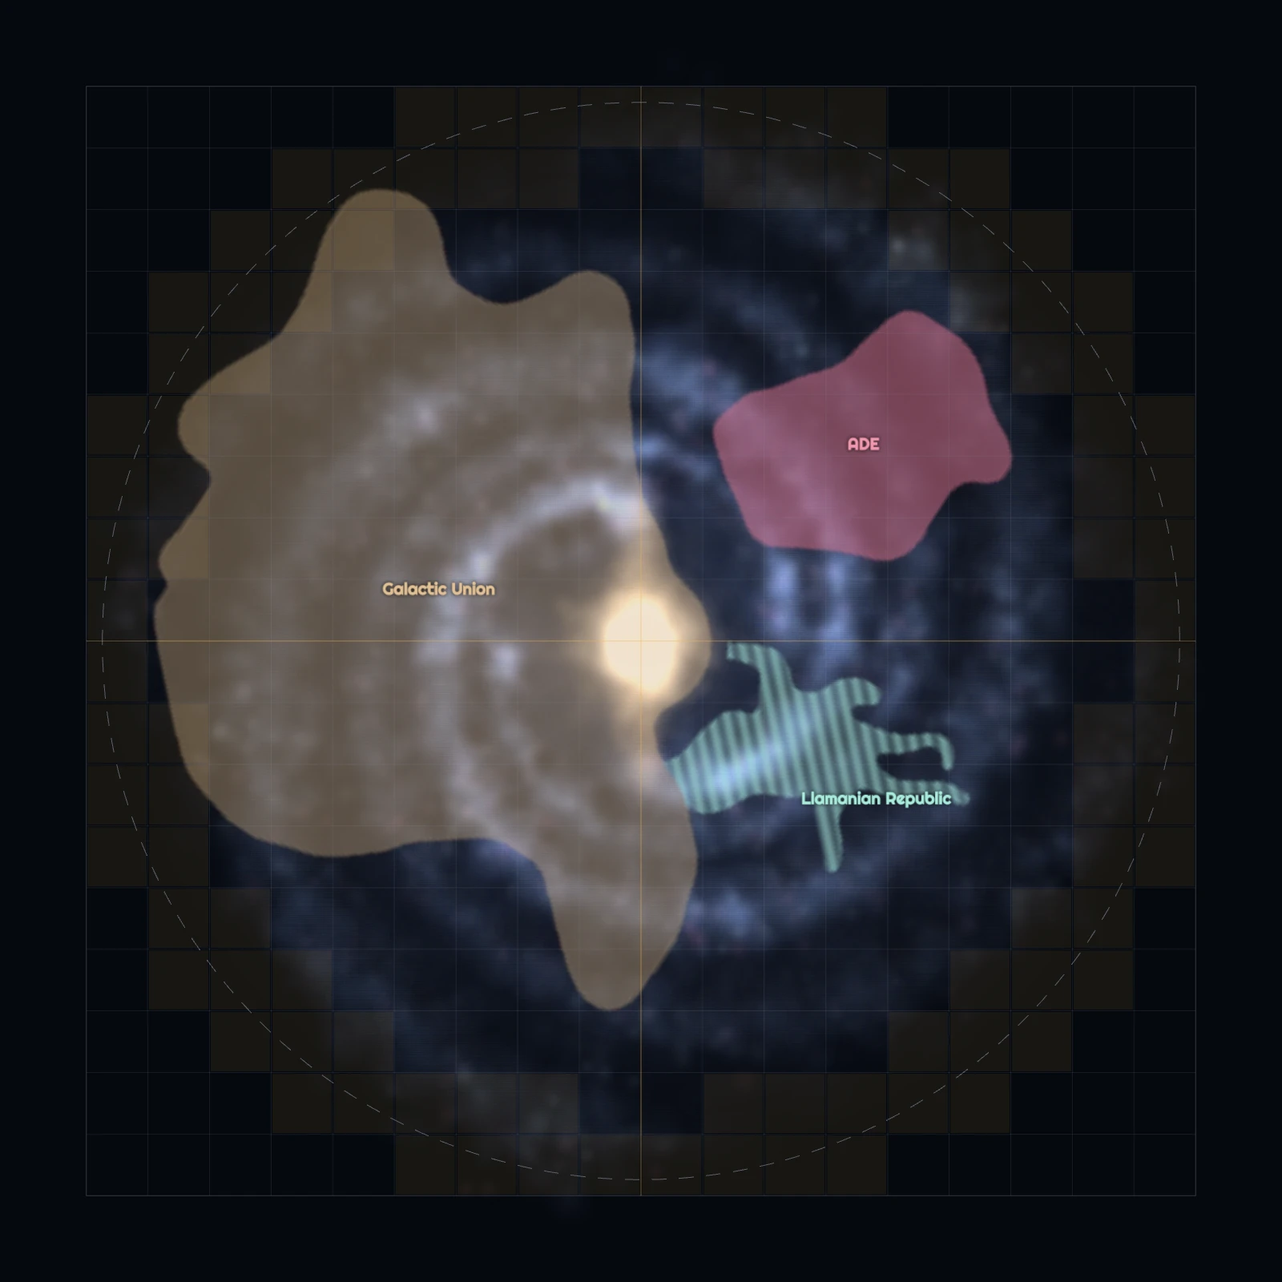
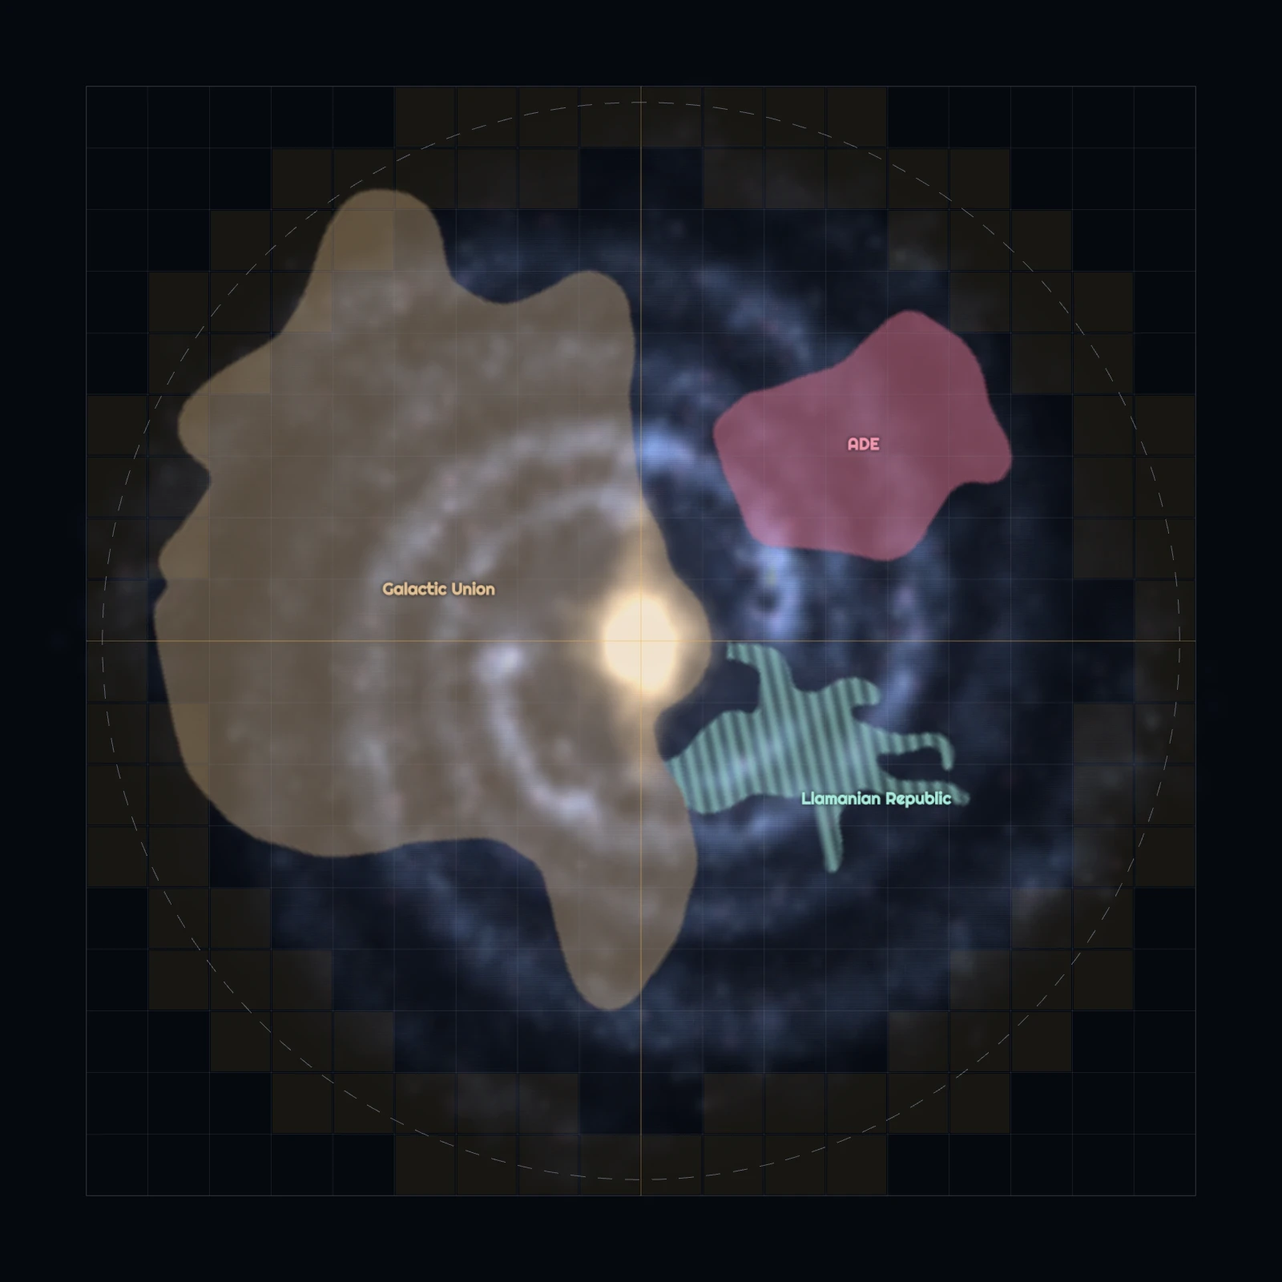
Galaxy map: arms laid out as the Milky Way's, the Orion Spur, and an Arm lines layer
Scutum-Crux and Perseus are now the major arms (the arms already fell at the right distances from Sol), and Sol gets its spur. The new layer, off by default, draws each arm as a colored line named as on the old subway-style map, plus the Bakree and Omega routes between saved places. The still picture is redrawn.

diff --git a/src/components/galaxy/GalaxyScene.tsx b/src/components/galaxy/GalaxyScene.tsx
@@ -26,6 +26,8 @@ export interface Layers {
     bearings: boolean;
     /** Names beside the place markers. */
     labels: boolean;
+    /** The arms and the Bakree and Omega routes as colored transit lines. */
+    transit: boolean;
 }
 
 interface Props {
@@ -70,17 +72,12 @@ function buildGalaxy(): THREE.Group {
     };
     g.globalCompositeOperation = 'lighter';
     blob(0, 0, DISK_R, '120,140,200', 0.3);
-    const b = Math.tan((12 * Math.PI) / 180);
-    const R0 = 11;
-    const tMax = Math.log(DISK_R / R0) / b;
-    for (let arm = 0; arm < 4; arm++) {
-        const major = arm % 2 === 0;
-        const off = Math.PI / 2 + (arm * Math.PI) / 2;
+    const tMax = Math.log(DISK_R / ARM_R0) / ARM_PITCH;
+    for (const { off, major } of ARMS) {
         for (let n = 0; n <= 260; n++) {
-            const t = (n / 260) * tMax;
-            const r = R0 * Math.exp(b * t);
+            const [x, y, r] = armPoint(off, (n / 260) * tMax);
             const w = (2.2 + r / 12) * (major ? 1 : 0.75);
-            blob(r * Math.cos(off + t), r * Math.sin(off + t), w, '150,185,255', (major ? 0.03 : 0.02) * (1 - (0.6 * n) / 260));
+            blob(x, y, w, '150,185,255', (major ? 0.03 : 0.02) * (1 - (0.6 * n) / 260));
         }
     }
     // Bar along +y, then the bulge.
@@ -118,6 +115,25 @@ function buildGalaxy(): THREE.Group {
     group.add(glow);
     return group;
 }
+
+// The four arms, each a log spiral r = ARM_R0 * exp(ARM_PITCH * t) at angle `off + t`. Laid out
+// this way they fall where the Milky Way's do as seen from Sol (26.7 klyr out, 27 degrees off the
+// bar): Norma at about 12 klyr, Scutum-Crux 17, Sagittarius 24, Sol, then Perseus 33; the
+// Norma spiral's second turn is the Outer arm. Scutum-Crux and Perseus are the two major arms.
+const ARM_PITCH = Math.tan((12 * Math.PI) / 180);
+const ARM_R0 = 11;
+const ARMS = [
+    { name: 'Norma', off: Math.PI / 2, major: false },
+    { name: 'Perseus', off: Math.PI, major: true },
+    { name: 'Sagittarius', off: (3 * Math.PI) / 2, major: false },
+    { name: 'Scutum-Crux', off: 0, major: true },
+];
+const armPoint = (off: number, t: number): [number, number, number] => {
+    const r = ARM_R0 * Math.exp(ARM_PITCH * t);
+    return [r * Math.cos(off + t), r * Math.sin(off + t), r];
+};
+/** Sol's own short arm, between Sagittarius and Perseus: the angle Sol sits at and how far out. */
+const ORION = { angle: Math.atan2(23.79, -12.122), r: 26.7 };
 
 /** One soft cloud: where it is (klyr), how wide, its color (0..1) and how strong. */
 type Puff = [x: number, y: number, z: number, size: number, r: number, g: number, b: number, alpha: number];
@@ -159,15 +175,11 @@ function galaxyClouds(): { light: Puff[]; dust: Puff[] } {
         light.push([gauss() * 1.5 * thin, y, gauss() * 1.1 * thin, between(2.2, 4.2), 1, 0.8, 0.58, strength * 0.032 * thin]);
     }
     // Arms
-    const pitch = Math.tan((12 * Math.PI) / 180);
-    const R0 = 11;
-    const tMax = Math.log((DISK_R * 0.96) / R0) / pitch;
-    for (let arm = 0; arm < 4; arm++) {
-        const major = arm % 2 === 0;
-        const off = Math.PI / 2 + (arm * Math.PI) / 2;
+    const tMax = Math.log((DISK_R * 0.96) / ARM_R0) / ARM_PITCH;
+    ARMS.forEach(({ off, major }, arm) => {
         const at = (t: number) => {
-            const r = R0 * Math.exp(pitch * t);
-            return { r, x: r * Math.cos(off + t), y: r * Math.sin(off + t), width: (1.5 + r / 13) * (major ? 1 : 0.72) };
+            const [x, y, r] = armPoint(off, t);
+            return { r, x, y, width: (1.5 + r / 13) * (major ? 1 : 0.72) };
         };
         for (let n = count(major ? 1500 : 950); n > 0; n--) {
             const u = rnd();
@@ -189,6 +201,13 @@ function galaxyClouds(): { light: Puff[]; dust: Puff[] } {
             const inward = 1 - (0.55 * p.width + gauss() * 0.3 * p.width) / p.r;
             dust.push([p.x * inward, p.y * inward, gauss() * 0.3, between(2.6, 5.2), 0.02, 0.015, 0.03, strength * 0.085 * (1 - 0.5 * u)]);
         }
+    });
+    // The Orion Spur: the short, faint arm Sol sits in
+    for (let n = count(150); n > 0; n--) {
+        const turn = between(-0.75, 0.6);
+        const r = ORION.r * Math.exp(ARM_PITCH * 1.4 * turn);
+        const fade = 1 - Math.abs(turn + 0.075) / 0.72;
+        light.push([r * Math.cos(ORION.angle + turn) + gauss() * 1.1, r * Math.sin(ORION.angle + turn) + gauss() * 1.1, gauss() * 0.55, between(2.4, 4.6), 0.6, 0.74, 1, strength * 0.05 * fade]);
     }
     // The thin disc between the arms
     for (let n = count(700); n > 0; n--) {
@@ -249,7 +268,7 @@ function puffMesh(puffs: Puff[], blending: THREE.Blending, renderOrder: number):
     return mesh;
 }
 
-type Groups = Record<'galaxy' | 'grid' | 'octants' | 'ring' | 'terr' | 'rim' | 'bearings', THREE.Object3D>;
+type Groups = Record<'galaxy' | 'grid' | 'octants' | 'ring' | 'terr' | 'rim' | 'bearings' | 'transit', THREE.Object3D>;
 
 /** Everything the map draws, one group per layer. `onTerritories` runs once the territory picture has loaded into its group. */
 function buildWorld(fontDisplay: string, onTerritories?: () => void): Groups {
@@ -289,7 +308,76 @@ function buildWorld(fontDisplay: string, onTerritories?: () => void): Groups {
         );
         grid.add(box);
     }
-    return { galaxy, rim, terr, grid, octants, ring, bearings };
+    return { galaxy, rim, terr, grid, octants, ring, bearings, transit: buildTransit(fontDisplay) };
+}
+
+/** A flat colored band along a path on the plane, like a line on a transit map. */
+function ribbon(path: [number, number][], color: string, width = 0.55): THREE.Mesh {
+    const position: number[] = [];
+    const index: number[] = [];
+    path.forEach(([x, y], i) => {
+        const [ax, ay] = path[Math.max(0, i - 1)];
+        const [bx, by] = path[Math.min(path.length - 1, i + 1)];
+        const len = Math.hypot(bx - ax, by - ay) || 1;
+        const [nx, ny] = [(-(by - ay) / len) * (width / 2), ((bx - ax) / len) * (width / 2)];
+        position.push(x + nx, y + ny, 0.3, x - nx, y - ny, 0.3);
+        if (i > 0) index.push(2 * i - 2, 2 * i - 1, 2 * i, 2 * i, 2 * i - 1, 2 * i + 1);
+    });
+    const geo = new THREE.BufferGeometry();
+    geo.setAttribute('position', new THREE.Float32BufferAttribute(position, 3));
+    geo.setIndex(index);
+    const mesh = new THREE.Mesh(geo, new THREE.MeshBasicMaterial({ color, transparent: true, opacity: 0.9, depthTest: false, depthWrite: false, side: THREE.DoubleSide }));
+    mesh.renderOrder = 2;
+    return mesh;
+}
+
+// The line colors of the old "Comprehensive Map" (the subway-style one). Perseus was not on it.
+const LINE_COLORS = { outer: '#ff2fd6', threeKpc: '#ffe600', scutum: '#22e02a', sagittarius: '#2f8cff', perseus: '#35d6d0', bakree: '#ff2a2a', omega: '#ff8a1f' };
+/** The routes between saved places, by slug, in order. */
+const ROUTES: { color: string; stops: string[] }[] = [
+    { color: LINE_COLORS.bakree, stops: ['bakree_nebula', 'sol', 'ptorei_nebula'] },
+    { color: LINE_COLORS.omega, stops: ['geche_customs', 'padox_district', 'bagriburg', 'vanta_outer_junction'] },
+];
+
+/**
+ * The transit-map layer: each arm drawn as a colored line along its spiral, named as on
+ * the old subway-style map (the Norma spiral is "3kpc" near the bar and "Outer" beyond
+ * 20 klyr). The routes between places are added by the scene, which knows the places.
+ */
+function buildTransit(fontDisplay: string): THREE.Group {
+    const group = new THREE.Group();
+    const tMax = Math.log((DISK_R * 0.97) / ARM_R0) / ARM_PITCH;
+    const spiral = (off: number, from: number, to: number): [number, number][] => {
+        const path: [number, number][] = [];
+        for (let n = 0; n <= 160; n++) {
+            const [x, y] = armPoint(off, from + ((to - from) * n) / 160);
+            path.push([x, y]);
+        }
+        return path;
+    };
+    const label = (text: string, color: string, off: number, t: number) => {
+        const [x, y, r] = armPoint(off, t);
+        group.add(textSprite(text, color, fontDisplay, [x * (1 + 2 / r), y * (1 + 2 / r), 0.6], 2.6));
+    };
+    const split = Math.log(20 / ARM_R0) / ARM_PITCH;
+    const [norma, perseus, sagittarius, scutum] = ARMS;
+    group.add(
+        ribbon(spiral(norma.off, 0, split), LINE_COLORS.threeKpc),
+        ribbon(spiral(norma.off, split, tMax), LINE_COLORS.outer),
+        ribbon(spiral(perseus.off, 0, tMax), LINE_COLORS.perseus),
+        ribbon(spiral(sagittarius.off, 0, tMax), LINE_COLORS.sagittarius),
+        ribbon(spiral(scutum.off, 0, tMax), LINE_COLORS.scutum),
+    );
+    label('3kpc', LINE_COLORS.threeKpc, norma.off, split * 0.45);
+    label('Outer', LINE_COLORS.outer, norma.off, tMax * 0.86);
+    label('Perseus', LINE_COLORS.perseus, perseus.off, tMax * 0.7);
+    label('Sagittarius', LINE_COLORS.sagittarius, sagittarius.off, tMax * 0.62);
+    label('Scutum-Crux', LINE_COLORS.scutum, scutum.off, tMax * 0.55);
+    const routes = new THREE.Group();
+    routes.name = 'routes';
+    group.add(routes);
+    group.visible = false;
+    return group;
 }
 
 /** Half the width, in klyr, of the square the still picture covers (top-down, +y up, Sagittarius A in the middle). */
@@ -317,6 +405,7 @@ export function renderStill(size: number, fontDisplay: string): Promise<string> 
         });
         groups.octants.visible = false;
         groups.bearings.visible = false;
+        groups.transit.visible = false;
         scene.add(...Object.values(groups));
     });
 }
@@ -668,7 +757,23 @@ export default function GalaxyScene({ places, selectedId, onSelect, view, layers
         g.octants.visible = layers.octants;
         g.ring.visible = layers.grid || layers.octants || layers.galaxy;
         g.bearings.visible = layers.bearings;
+        g.transit.visible = layers.transit;
     }, [layers]);
+
+    // The transit layer's routes run between saved places, so they follow the places
+    const stops = ROUTES.map((route) => route.stops.map((slug) => places.find((p) => p.slug === slug)?.pos.slice(0, 2).join(',') ?? '').join(';')).join('|');
+    useEffect(() => {
+        const routes = three.current?.groups.transit.getObjectByName('routes');
+        if (!routes) return;
+        for (const old of [...routes.children]) {
+            routes.remove(old);
+            (old as THREE.Mesh).geometry.dispose();
+        }
+        stops.split('|').forEach((route, i) => {
+            const path = route.split(';').filter(Boolean).map((xy) => xy.split(',').map(Number) as [number, number]);
+            if (path.length > 1) routes.add(ribbon(path, ROUTES[i].color));
+        });
+    }, [stops]);
 
     useEffect(() => {
         const t = three.current;

diff --git a/src/components/galaxy/MapApp.tsx b/src/components/galaxy/MapApp.tsx
@@ -20,6 +20,7 @@ const cx = (...names: (string | false | null | undefined)[]) => names.filter(Boo
 // Listed top of the stack first, like layers in a paint program.
 const LAYER_ROWS: { key: keyof Layers; label: string; swatch: string; hint: string }[] = [
     { key: 'labels', label: 'Place names', swatch: '#dce4f1', hint: 'Names beside systems and landmarks' },
+    { key: 'transit', label: 'Arm lines', swatch: 'linear-gradient(90deg, #ff2fd6 0 25%, #ffe600 0 50%, #22e02a 0 75%, #2f8cff 0)', hint: 'The spiral arms as colored lines, with the Bakree and Omega routes' },
     { key: 'bearings', label: 'Bearings', swatch: '#8792a8', hint: 'The galactic bar and the way to Andromeda' },
     { key: 'octants', label: 'Octants', swatch: 'conic-gradient(#4f8ff0 0 25%, #e9c24a 0 50%, #45c27a 0 75%, #e8584f 0)', hint: 'The eight colored octant slabs and their names' },
     { key: 'grid', label: 'Sector grid', swatch: '#5d6779', hint: 'Sectors, 5 klyr to a square' },

diff --git a/src/components/galaxy/store.ts b/src/components/galaxy/store.ts
@@ -79,7 +79,7 @@ export function useGalaxyStore(initial: ApiPlace[]) {
     const [selBodyId, setSelBodyId] = useState<number | null>(null);
     const [level, setLevel] = useState<'galaxy' | 'system'>('galaxy');
     const [view, setView] = useState<ViewMode>('tilt');
-    const [layers, setLayers] = useState<Layers>({ galaxy: true, territories: true, rim: true, grid: true, octants: false, bearings: true, labels: true });
+    const [layers, setLayers] = useState<Layers>({ galaxy: true, territories: true, rim: true, grid: true, octants: false, bearings: true, labels: true, transit: false });
     const [flyToken, setFlyToken] = useState(0);
     const [resetToken, setResetToken] = useState(0);
     const [placing, setPlacing] = useState(false);

diff --git a/AGENTS.md b/AGENTS.md
@@ -45,7 +45,7 @@ Next.js rebuild of the legacy `ff-site` React app. Lore archive + authoring UI f
 - **Player characters (campaign cast)**: ff-server `GET /seasons/:season/cast` finds a campaign's player characters from its transcripts: in each episode, every player's most active character (QUOTE + ACTION messages). A player's main leads nearly every episode they attend; a side character (Bail, Ibraxas) only the episodes it carried. Nobody is excluded, so in FF4 (the only campaign with a GM) the GM's busiest NPC per episode counts too; admins curate those (demote to NPC). Admins can also add characters per campaign by hand (`Character.mainIn`, `SpeakerAdmin` → "add to cast…" → `PUT /characters/:id/main-in`): the only way a story-only campaign gets a cast. `/archives/[season]` lists the cast as avatars (`CastAvatar`, name on hover), most messages first; each episode page lists the ones that led it.
 - **Character colors**: `Character.color` is the dark-mode color, `Character.colorLight` an optional light-mode override. Always resolve display colors with `characterColor(name, color, mode, colorLight)` (`src/lib/characterColors.ts`): each theme takes its own color, then the legacy table, then the other theme's color made readable (`suggestColorFor` in `src/lib/colorContrast.ts`: same hue, lightness moved in OKLCH until 4.5:1 on that theme's backgrounds), then the name hash. The character editor's two color fields (`theme` in the schema) show that resolved color when empty (in the picker and as the hex placeholder), so the suggestion and the site always agree. The editor draws them as one control (`ThemeColorPair`, with a transcript-block preview per theme and the characters with a similar color, `SimilarColors`); the lock between them (editor state only, not stored) ties the two: locked, editing either sets the other to it made readable for that theme; it starts unlocked when the two were picked separately (or the legacy table supplies the light color). A color under 4.5:1 gets a "use suggestion" button (the nearest readable version of the picked color). Look colors up by the character's own name, never a persona's display name.
 - **Character index**: `GET /characters` returns `quoteCount` and per-campaign first `appearances`; `CharacterIndex` sorts by them (`src/lib/characterSort.ts`; default: times quoted, most first, since there's no "main character" field) and can group by campaign, where a character is listed under every campaign they appear in.
-- **Galaxy map** (`/galaxy`, `src/components/galaxy/`; ff-server `src/galaxy/`, routes under `/galaxy/`): the page loads every place (`GET /galaxy/places`: systems and landmarks with their bodies and travelogue) and hands them to `MapApp`. `data.ts` holds the Sector Grid frame math (klyr, Sagittarius A at the origin), the regions (read from `public/galaxy/territories.png`), the reference scales and `fromApi`, which turns ff-server's rows into the `Place`/`Body` shape the components use; its `STAR_TYPES`, `COMPOSITIONS` and `LANDMARK_CATEGORIES` keys must match ff-server's `galaxy.validation.ts`. `store.ts` (`useGalaxyStore`) keeps the places in step with ff-server through `/site/ff/galaxy/...`: every change is sent first and shown from the answer, except a body's slider edits, which show at once and are sent when they pause; a refused change shows its message (`store.error`). `GalaxyScene.tsx` is three.js with DOM markers on top; the galaxy itself is a painted disc under a few thousand large soft camera-facing clouds with real thickness (`galaxyClouds`, drawn instanced by `puffMesh`: bulge, bar, arms, dust lanes, halo; each several klyr wide so none reads as a place, and never star points): "Rotate" is OrbitControls, "Top-down" is locked (the frame loop puts the camera straight above its focus every frame, +y up, so it can pan and zoom but never turn), and flying to a place slides the camera with its focus. `SystemView.tsx` is the full-screen view of one system. Members never type raw numbers: sizes and orbits are picked against reference bodies. Any signed-in member adds (the + button; signed out it is a sign-in link); edit and delete controls show only to the place's creator and admins (`store.canEdit`; ff-server enforces it). A black hole is a system whose star is a `black_hole`, never a landmark. The travelogue (`Travelogue` in `parts.tsx`) lists the episodes tagged on a place or one body; any signed-in member tags one with "Tag an episode" (`EpisodePicker`, which filters the episodes of `GET /seasons`, loaded on first use by `store.loadEpisodes`), and the × on a tag shows to whoever tagged it, the place's creator and admins. "Edit" on a place or body shows its name, description and wiki slug (`TextFields`; a landmark's kind too), each saved when the field is left (`store.editPlace` / `editBody`); a place or body whose slug has a wiki page shows that page's picture, opening paragraph, faction and a link to the article under its own description (`Writeup`; `wikiInfo` in `data.ts` reads ff-server's `wiki` row, which comes from the wiki cache, so a new wiki page shows after `npm run refresh:wiki-cache` there). Name labels are decluttered each frame (`declutter` in `GalaxyScene.tsx`: right of the dot, else left, else hidden until hovered) so a label never covers another place's dot. Without WebGL the map is one top-down picture, `public/galaxy/still.webp`, with the places laid over it (clickable, placing works, no camera and no layers); the picture is drawn by `renderStill` from the same groups as the live scene (`buildWorld`), so after changing how the galaxy, grid or territories look, open the dev-only page `/galaxy/still` and save what it shows over that file (`STILL_HALF` is the half-width in klyr the picture covers). Not built yet: seeding from the wiki.
+- **Galaxy map** (`/galaxy`, `src/components/galaxy/`; ff-server `src/galaxy/`, routes under `/galaxy/`): the page loads every place (`GET /galaxy/places`: systems and landmarks with their bodies and travelogue) and hands them to `MapApp`. `data.ts` holds the Sector Grid frame math (klyr, Sagittarius A at the origin), the regions (read from `public/galaxy/territories.png`), the reference scales and `fromApi`, which turns ff-server's rows into the `Place`/`Body` shape the components use; its `STAR_TYPES`, `COMPOSITIONS` and `LANDMARK_CATEGORIES` keys must match ff-server's `galaxy.validation.ts`. `store.ts` (`useGalaxyStore`) keeps the places in step with ff-server through `/site/ff/galaxy/...`: every change is sent first and shown from the answer, except a body's slider edits, which show at once and are sent when they pause; a refused change shows its message (`store.error`). `GalaxyScene.tsx` is three.js with DOM markers on top; the galaxy itself is a painted disc under a few thousand large soft camera-facing clouds with real thickness (`galaxyClouds`, drawn instanced by `puffMesh`: bulge, bar, arms, dust lanes, halo; each several klyr wide so none reads as a place, and never star points): "Rotate" is OrbitControls, "Top-down" is locked (the frame loop puts the camera straight above its focus every frame, +y up, so it can pan and zoom but never turn), and flying to a place slides the camera with its focus. `SystemView.tsx` is the full-screen view of one system. Members never type raw numbers: sizes and orbits are picked against reference bodies. Any signed-in member adds (the + button; signed out it is a sign-in link); edit and delete controls show only to the place's creator and admins (`store.canEdit`; ff-server enforces it). A black hole is a system whose star is a `black_hole`, never a landmark. The travelogue (`Travelogue` in `parts.tsx`) lists the episodes tagged on a place or one body; any signed-in member tags one with "Tag an episode" (`EpisodePicker`, which filters the episodes of `GET /seasons`, loaded on first use by `store.loadEpisodes`), and the × on a tag shows to whoever tagged it, the place's creator and admins. "Edit" on a place or body shows its name, description and wiki slug (`TextFields`; a landmark's kind too), each saved when the field is left (`store.editPlace` / `editBody`); a place or body whose slug has a wiki page shows that page's picture, opening paragraph, faction and a link to the article under its own description (`Writeup`; `wikiInfo` in `data.ts` reads ff-server's `wiki` row, which comes from the wiki cache, so a new wiki page shows after `npm run refresh:wiki-cache` there). Name labels are decluttered each frame (`declutter` in `GalaxyScene.tsx`: right of the dot, else left, else hidden until hovered) so a label never covers another place's dot. The arms are laid out as the Milky Way's are (`ARMS` in `GalaxyScene.tsx`: Norma/Outer, Scutum-Crux, Sagittarius, Perseus, with Scutum-Crux and Perseus the major pair, plus the Orion Spur at Sol); the "Arm lines" layer (off by default, `buildTransit`) draws them as colored transit lines in the colors of the old subway-style map, with the Bakree and Omega routes run between saved places by slug (`ROUTES`). Without WebGL the map is one top-down picture, `public/galaxy/still.webp`, with the places laid over it (clickable, placing works, no camera and no layers); the picture is drawn by `renderStill` from the same groups as the live scene (`buildWorld`), so after changing how the galaxy, grid or territories look, open the dev-only page `/galaxy/still` and save what it shows over that file (`STILL_HALF` is the half-width in klyr the picture covers). Not built yet: seeding from the wiki.
 - **Commentary notes** sit on a transcript message or a story line (a `commentaries` row has exactly one; `notesUrl` in `CommentaryThread` builds either's address). They show three ways: the rail beside each transcript block or story line (`CommentaryThread`; the rail is link, personas/voices (🎭, who may change them), notes, outside the text's box; a story line's rail shows on hover, and a line with notes keeps its count visible), an episode's list above its transcript, and a user's list on `/users/[username]` (ff-server `GET /users/:id/commentaries`, with story notes linking to their line); both lists use `NoteList`. Replacing a story's text (`PUT /stories/:slug/import`) keeps its notes: each moves to the new line with the same text, else the line at its old position (ff-server `src/story/note-carry.ts`). Note search still covers transcript notes only. Same-page `?line=N` links use `LineJumpLink` (pushState, no transcript refetch).
 - EMBED message `text` is a JSON string `{title?, description[], footer?}`; the transcript reader regroups consecutive messages by player+character into Discord-style blocks.
 - **Story dialogue presentation**: `Story.format` (`SCRIPT` | `PROSE`) switches script-style vs novel-style rendering. A NARRATION `StoryLine` may carry `segments` (ff-server's `story_segments` rows, served as `[{text, characterId?, personaId?, persona?, italic?, bold?}]`) — the universal inline-run primitive for embedded dialogue *and* inline italic/bold — with segment texts concatenating verbatim to `text` (server-derived, so they never desync; search/scan stay on `text`). Block section headings use the `HEADING` line type. Import: `[spoken]{Speaker}` dialogue spans, `*italic*`/`**bold**` emphasis, and `## Title` headings in the story markdown; the docx converter maps Heading 1→chapter, Heading 2→heading line in prose.
